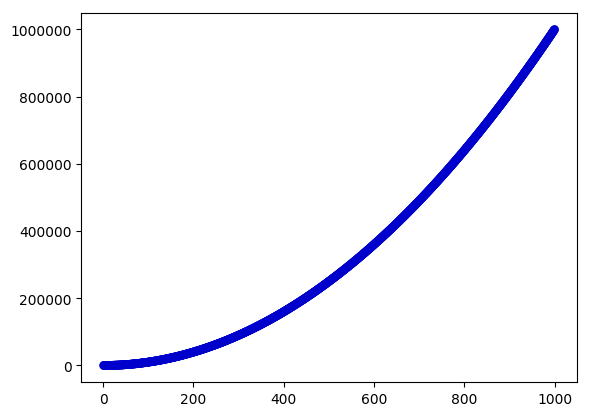
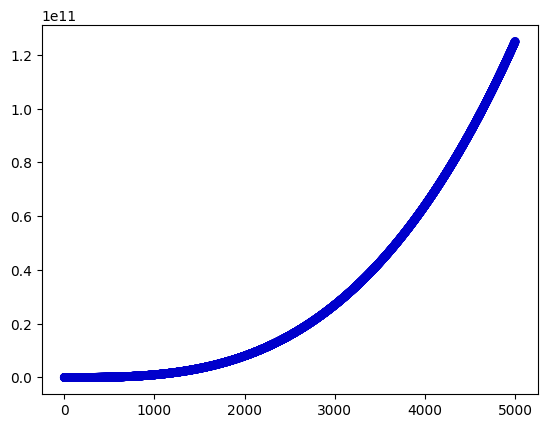
moving on

Changed region(s): [[0.0, 0.0312, 0.9873, 0.9688], [0.0, 0.625, 0.0926, 0.6562], [0.0, 0.125, 0.0926, 0.1562]]

diff --git a/scatter_squares.py b/scatter_squares.py
@@ -3,8 +3,8 @@ import matplotlib.pyplot as plt
 #x_values = [1, 2, 3, 4, 5]
 #y_values = [1, 4, 9, 16, 25]
 
-x_values = list(range(1, 1001))
-y_values = [x**2 for x in x_values]
+x_values = list(range(1, 5001))
+y_values = [x**3 for x in x_values]
 
 # colormap
 
